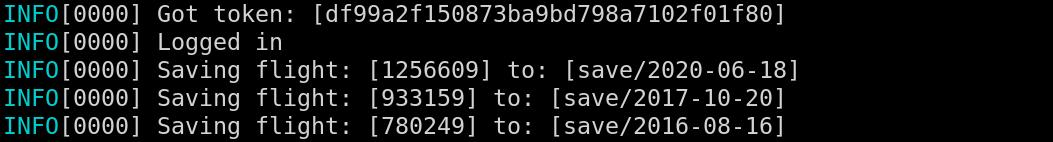
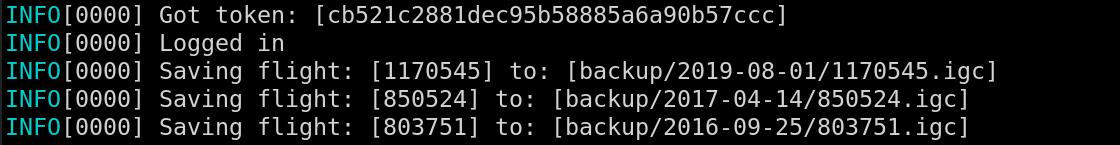
full filename

diff --git a/main.go b/main.go
@@ -181,7 +181,7 @@ func saveIgc(id string, targetdir string, date string) {
 	igcurl := fmt.Sprintf("https://en.dhv-xc.de/flight/%s/igc", id)
 	igcdata := httpReq(igcurl, json_dumps(""), Method.GET, token)
 	f, _ := os.Create(fmt.Sprintf("%s/%s/%s.igc", targetdir, date, id))
-	logrus.Infof("Saving flight: [%s] to: [%s/%s]", id, targetdir, date)
+	logrus.Infof("Saving flight: [%s] to: [%s/%s/%s.igc]", id, targetdir, date, id)
 	f.Write(igcdata)
 	f.Close()
 	return
